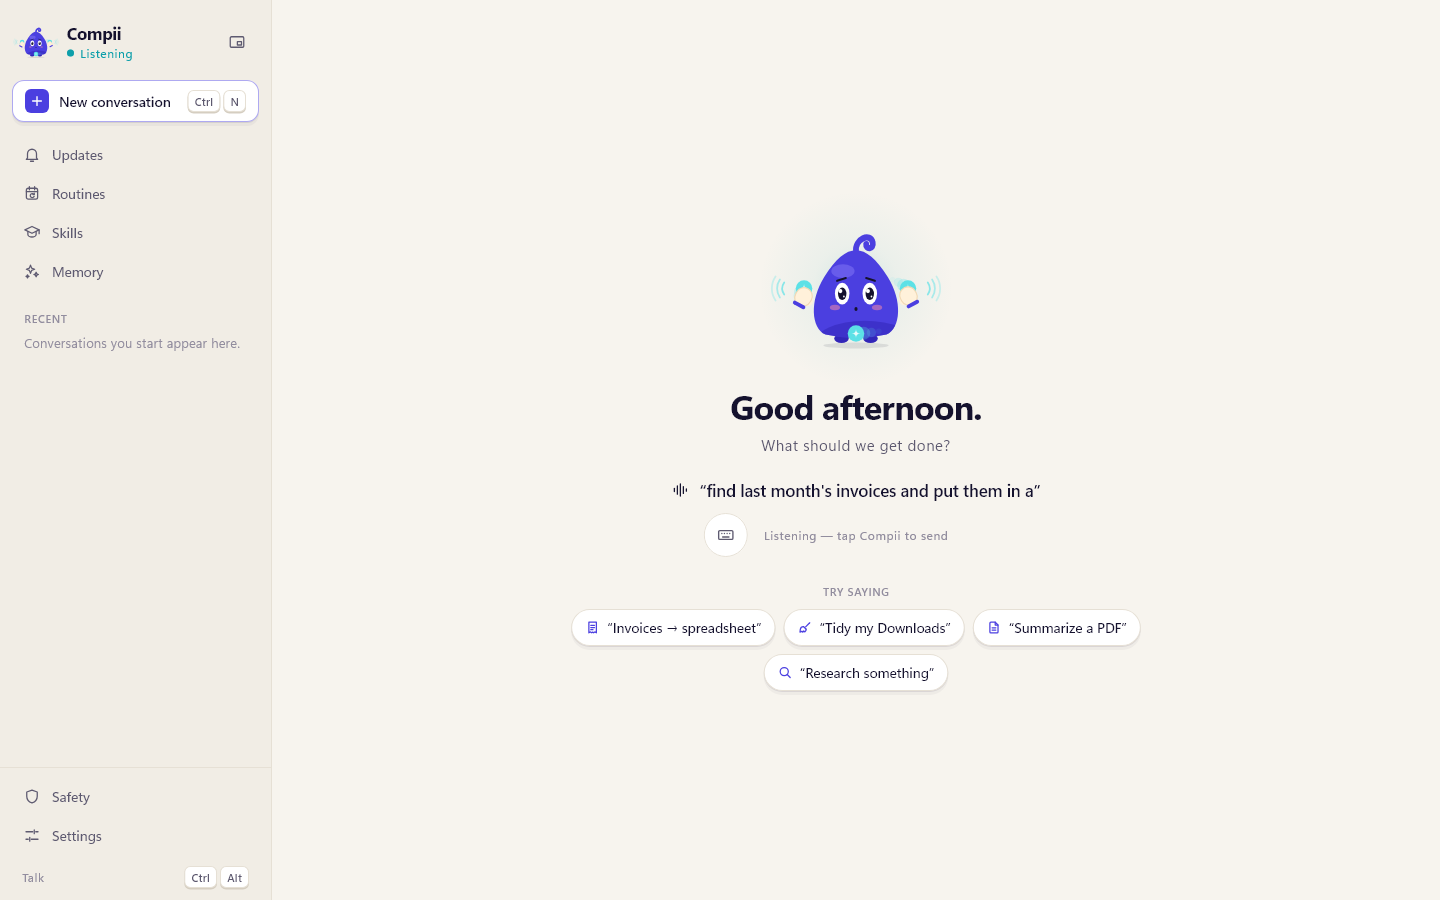
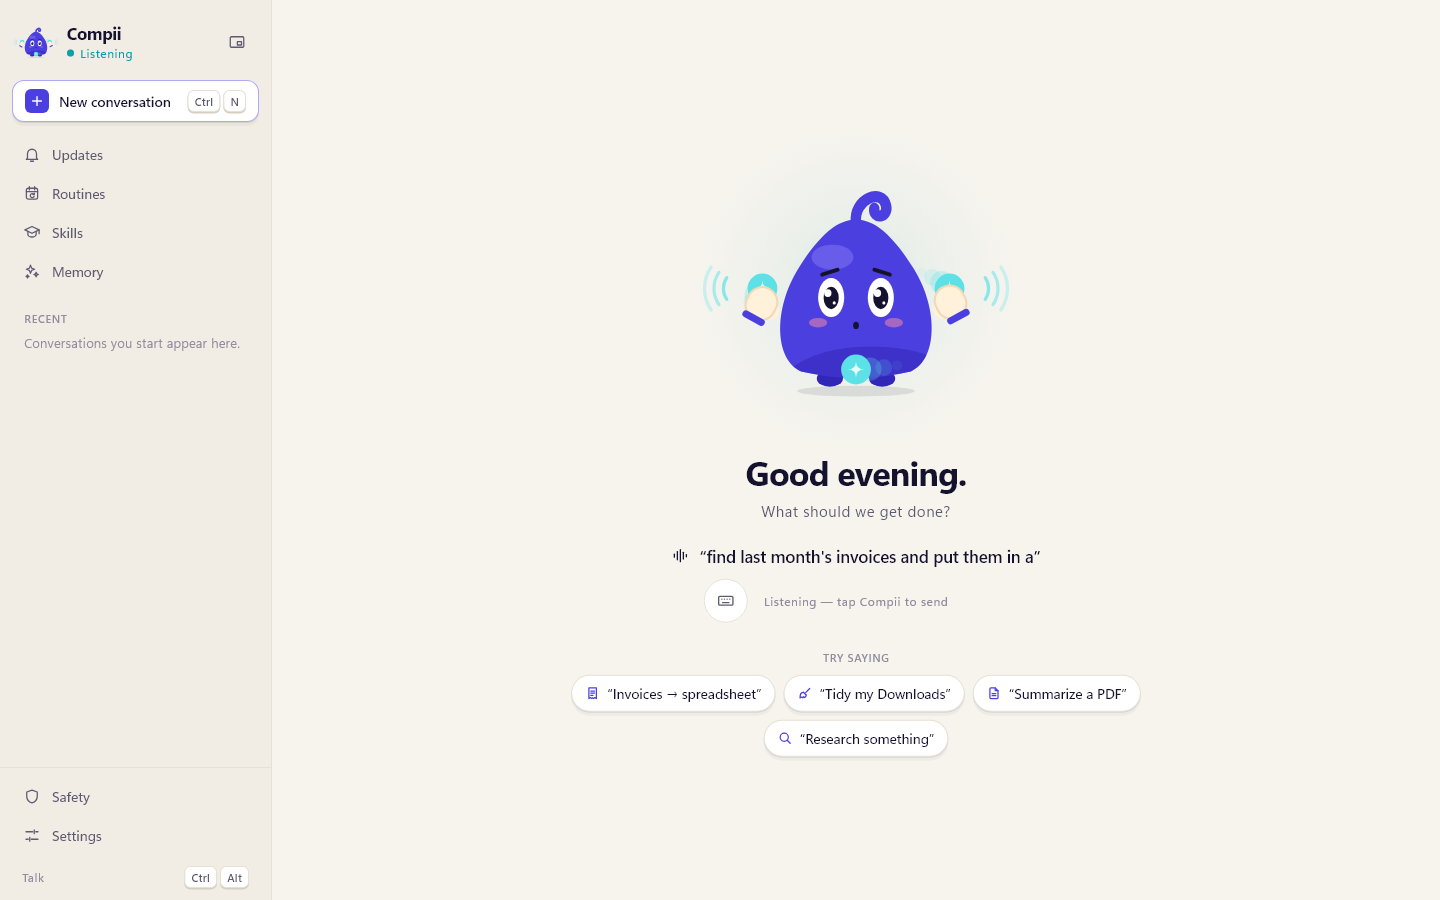
Bigger character on Home and in conversations

diff --git a/compii_flutter/apps/companion/lib/src/ui/stage.dart b/compii_flutter/apps/companion/lib/src/ui/stage.dart
@@ -30,6 +30,7 @@ class Stage extends StatelessWidget {
     final voice = state.voice;
     final pending = turn?.pending;
     final mood = state.moodWith(core);
+    final hero = (MediaQuery.sizeOf(context).height * .24).clamp(120.0, 220.0);
     final speakingCaption = voice != null && voice.speaking && voice.caption.isNotEmpty ? voice.caption : null;
     final (String bubble, bool working) = switch (turn) {
       null => ('', true),
@@ -79,7 +80,7 @@ class Stage extends StatelessWidget {
                             style: context.type.bodyLarge?.copyWith(color: c.muted, fontStyle: FontStyle.italic)),
                       ),
                     Aura(
-                      size: 210,
+                      size: hero * 1.55,
                       color: switch (mood) {
                         Mood.waiting => c.warning,
                         Mood.problem => c.danger,
@@ -87,8 +88,8 @@ class Stage extends StatelessWidget {
                         _ => c.accent,
                       },
                       child: voice != null
-                          ? TalkableOrbling(voice: voice, mood: mood, jobs: task.active ? 1 : 0, size: 128)
-                          : SizedBox.square(dimension: 128, child: Orbling(mood: mood, jobs: task.active ? 1 : 0)),
+                          ? TalkableOrbling(voice: voice, mood: mood, jobs: task.active ? 1 : 0, size: hero)
+                          : SizedBox.square(dimension: hero, child: Orbling(mood: mood, jobs: task.active ? 1 : 0)),
                     ),
                     if (bubble.isNotEmpty) _SpeechBubble(text: bubble, working: working, failed: turn?.status == 'failed'),
                     if (pending != null) ...[

diff --git a/compii_flutter/apps/companion/lib/src/ui/shell.dart b/compii_flutter/apps/companion/lib/src/ui/shell.dart
@@ -801,6 +801,8 @@ class _Home extends StatelessWidget {
     final c = context.c;
     final mood = state.moodWith(core);
     final jobs = core.ordered.where((t) => t.active).length;
+    // The character is the star: big on a normal window, smaller when space is tight.
+    final hero = (MediaQuery.sizeOf(context).height * .3).clamp(150.0, 270.0);
     final online = core.status == CoreStatus.online;
     return Center(
       child: SingleChildScrollView(
@@ -811,7 +813,7 @@ class _Home extends StatelessWidget {
             mainAxisSize: MainAxisSize.min,
             children: [
               Aura(
-                size: 250,
+                size: hero * 1.55,
                 color: switch (mood) {
                   Mood.listening => c.listen,
                   Mood.waiting => c.warning,
@@ -819,8 +821,8 @@ class _Home extends StatelessWidget {
                   _ => c.accent,
                 },
                 child: state.voice != null
-                    ? TalkableOrbling(voice: state.voice!, mood: mood, jobs: jobs, size: 150)
-                    : SizedBox.square(dimension: 150, child: Orbling(mood: mood, jobs: jobs)),
+                    ? TalkableOrbling(voice: state.voice!, mood: mood, jobs: jobs, size: hero)
+                    : SizedBox.square(dimension: hero, child: Orbling(mood: mood, jobs: jobs)),
               ),
               Text('$_greeting.', style: context.type.displaySmall, textAlign: TextAlign.center),
               const SizedBox(height: 6),
